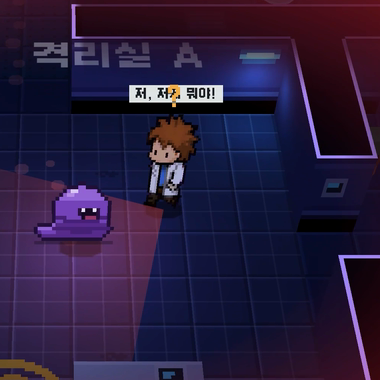
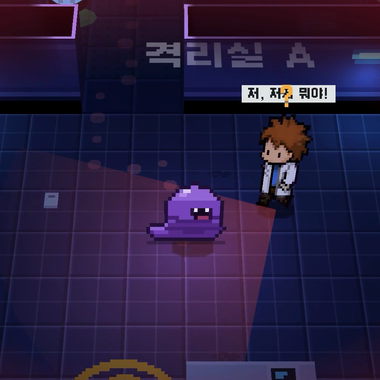
Tutorial clips animate via FrameAnim; sight clip centered on player; purple eat ring/trail
Claude-Session: https://claude.ai/code/session_01JAMyzj42PXNTumxRgszbew

diff --git a/Assets/Scripts/View/WorldView3D.cs b/Assets/Scripts/View/WorldView3D.cs
@@ -729,7 +729,7 @@ namespace Specimen07
             {
                 var sr = Pooled(trailPool, ti++, () => Flat(dynRoot, "fx_dot", 1));
                 sr.transform.position = P(tr.x, 0.015f, tr.y); sr.transform.localScale = Vector3.one * (tr.r * 2 / 32f);
-                sr.color = new Color(1, 125 / 255f, 140 / 255f, 0.22f * tr.t / 3.5f);
+                sr.color = new Color(0.55f, 0.36f, 0.85f, 0.3f * tr.t / 3.5f);   // 주인공 보라 점액
             }
             HideFrom(trailPool, ti);
 
@@ -848,7 +848,7 @@ namespace Specimen07
                 float pulse = 0.5f + 0.5f * Mathf.Sin(t * 6);
                 bool blocked = S.anySee && game.OthersSee(tgt.Ref);
                 targetRing.transform.position = P(tgt.X, 0.035f, tgt.Y);
-                targetRing.color = blocked ? new Color(1, 81 / 255f, 72 / 255f, 0.5f + pulse * 0.4f) : new Color(1, 125 / 255f, 140 / 255f, 0.5f + pulse * 0.4f);
+                targetRing.color = blocked ? new Color(1, 81 / 255f, 72 / 255f, 0.5f + pulse * 0.4f) : new Color(0.66f, 0.48f, 0.95f, 0.5f + pulse * 0.4f);   // 먹기 대상 고리 = 주인공 보라
             }
 
             // 파티클 (카메라를 보게)

diff --git a/Assets/Scripts/View/HudTutorial.cs b/Assets/Scripts/View/HudTutorial.cs
@@ -146,7 +146,11 @@ namespace Specimen07
                 tutVideo.errorReceived -= OnTutError; tutVideo.errorReceived += OnTutError;
                 tutVideo.Prepare();
             }
-            if (tutFrameList != null && tutFrames != null) { tutFrameT = 0; tutFrames.sprite = tutFrameList[0]; }
+            if (tutFrames != null)
+            {
+                var anim = tutFrames.GetComponent<FrameAnim>() ?? tutFrames.gameObject.AddComponent<FrameAnim>();
+                anim.Play(tutFrameList, FRAME_FPS);   // 움짤은 이 컴포넌트가 직접 돌린다
+            }
         }
 
         void OnTutPrepared(VideoPlayer vp)
@@ -178,9 +182,7 @@ namespace Specimen07
 
         void UpdateTutorial(float dt)
         {
-            if (!TutorialOpen || tutFrameList == null || tutFrames == null) return;
-            tutFrameT += Time.unscaledDeltaTime;
-            tutFrames.sprite = tutFrameList[(int)(tutFrameT * FRAME_FPS) % tutFrameList.Length];
+            // 움짤은 FrameAnim이 돌린다
         }
     }
 }

diff --git a/Assets/Scripts/View/FrameAnim.cs b/Assets/Scripts/View/FrameAnim.cs
@@ -1,0 +1,29 @@
+// UI Image에 그림 여러 장을 차례로 보여 주는 움짤 (튜토리얼 카드 영상 칸). 게임이 멈춰 있어도 돈다(unscaled time).
+using UnityEngine;
+using UnityEngine.UI;
+
+namespace Specimen07
+{
+    [RequireComponent(typeof(Image))]
+    public class FrameAnim : MonoBehaviour
+    {
+        public Sprite[] frames;
+        public float fps = 12;
+        Image img; float t;
+
+        public void Play(Sprite[] f, float rate)
+        {
+            frames = f; fps = rate; t = 0;
+            if (img == null) img = GetComponent<Image>();
+            if (frames != null && frames.Length > 0) img.sprite = frames[0];
+        }
+
+        void Update()
+        {
+            if (frames == null || frames.Length == 0) return;
+            if (img == null) img = GetComponent<Image>();
+            t += Time.unscaledDeltaTime;
+            img.sprite = frames[(int)(t * fps) % frames.Length];
+        }
+    }
+}

diff --git a/Assets/Scripts/Core/Game.cs b/Assets/Scripts/Core/Game.cs
@@ -1404,7 +1404,8 @@ namespace Specimen07
            strong = 지금 [E]를 누르면 반응할 대상 (굵게·맥박), 나머지는 가까이 있으면 옅게 */
         public enum HiKind { Obj, Npc, Tile, Door, Console, Lift }
         public struct Highlight { public HiKind kind; public object target; public int tx, ty; public bool strong; public Color color; }
-        static readonly Color HI_EAT = new Color(1f, 0.49f, 0.55f), HI_BLOCK = new Color(1f, 0.32f, 0.28f), HI_CONSOLE = new Color(1f, 0.83f, 0.42f), HI_LIFT = new Color(0.5f, 0.88f, 0.69f);
+        static readonly Color HI_EAT = new Color(0.66f, 0.48f, 0.95f),   // 먹을 수 있는 것 = 주인공 보라
+                               HI_BLOCK = new Color(1f, 0.32f, 0.28f), HI_CONSOLE = new Color(1f, 0.83f, 0.42f), HI_LIFT = new Color(0.5f, 0.88f, 0.69f);
         public void CollectHighlights(List<Highlight> list)
         {
             list.Clear();

diff --git a/Assets/Scripts/Level/LevelObject.cs b/Assets/Scripts/Level/LevelObject.cs
@@ -9,7 +9,7 @@ namespace Specimen07
         [Tooltip("chair trash cart plant water box")] public string form = "chair";
         void OnDrawGizmos()
         {
-            var p = GamePos; bool s = Selected; var c = new Color(1f, 0.49f, 0.55f);
+            var p = GamePos; bool s = Selected; var c = new Color(0.66f, 0.48f, 0.95f);
             GBox(p.x, p.y, 0.62f, 0.62f, 0.75f, 0, new Color(c.r, c.g, c.b, s ? 0.25f : 0.04f), new Color(c.r, c.g, c.b, s ? 1 : 0.4f));
         }
     }
